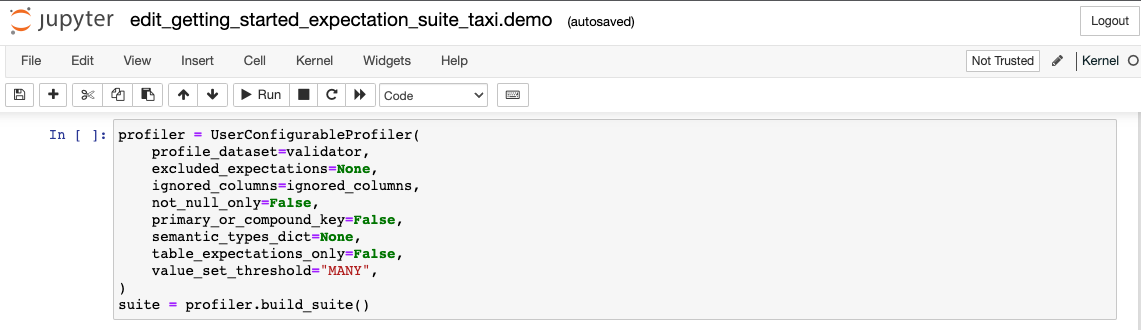
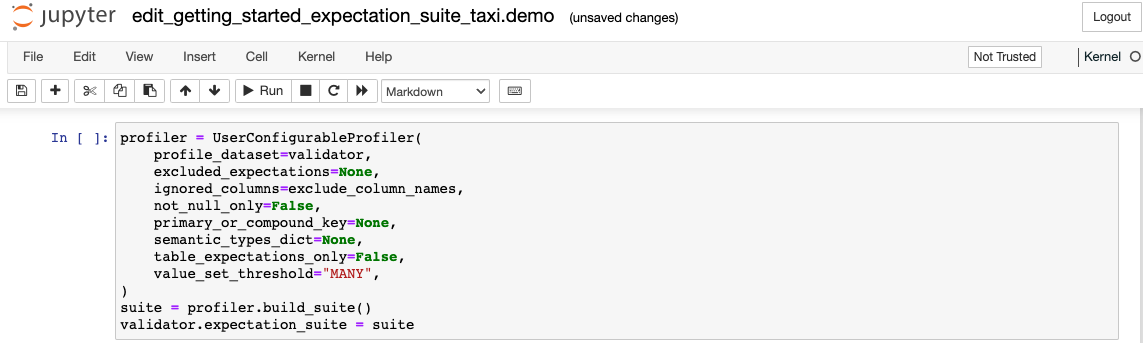
[DOCS] revert getting started tutorial to RBP process (#5307)
* - copies the data assistant version of the create expectations tutorial page to the docs_pending folder (so it can be restored once the Onboarding Assistant and Data Assistant docs are in place/APIs are stable)
- reverts the guidance on the "Create Expectations" tutorial page to give instructions for working with a RBP. (Leaves the updates on the "Connect to data" tutorial page in place; they should reflect the updated code to remove the prior deprecation warnings).

* updating the getting started snippet to reflect the notebook

* - Update the cell 3 image for the create expectations page of the getting started tutorial

diff --git a/docs_pending/tutorial_create_expectations_onboarding_assistant.md b/docs_pending/tutorial_create_expectations_onboarding_assistant.md
@@ -101,9 +101,9 @@ Since notebooks are often less permanent, creating Expectations in a notebook al
 ```
 
 **Cell 3**
-![Cell3](../../images/getting_started_tutorial/tutorial_create_expectations_cell3.png)
+![Cell3](../../images/getting_started_tutorial/tutorial_create_expectations_cell3_onboarding_assistant.png)
 
-3. The next cell is where you configure a `UserConfigurableProfiler` and instantiate it, which will then profile the data and create the relevant Expectations to add to your `taxi.demo` suite.
+3. Cell 3 is where you run a Data Assistant.  In this case, the assistant being used is the Onboarding Assistant, which will Profile the data provided by your Batch Request and create the relevant Expectations to add to your `taxi.demo` suite.
 
 **Cell 4**
 ![Cell4](../../images/getting_started_tutorial/tutorial_create_expectations_cell4.png)
